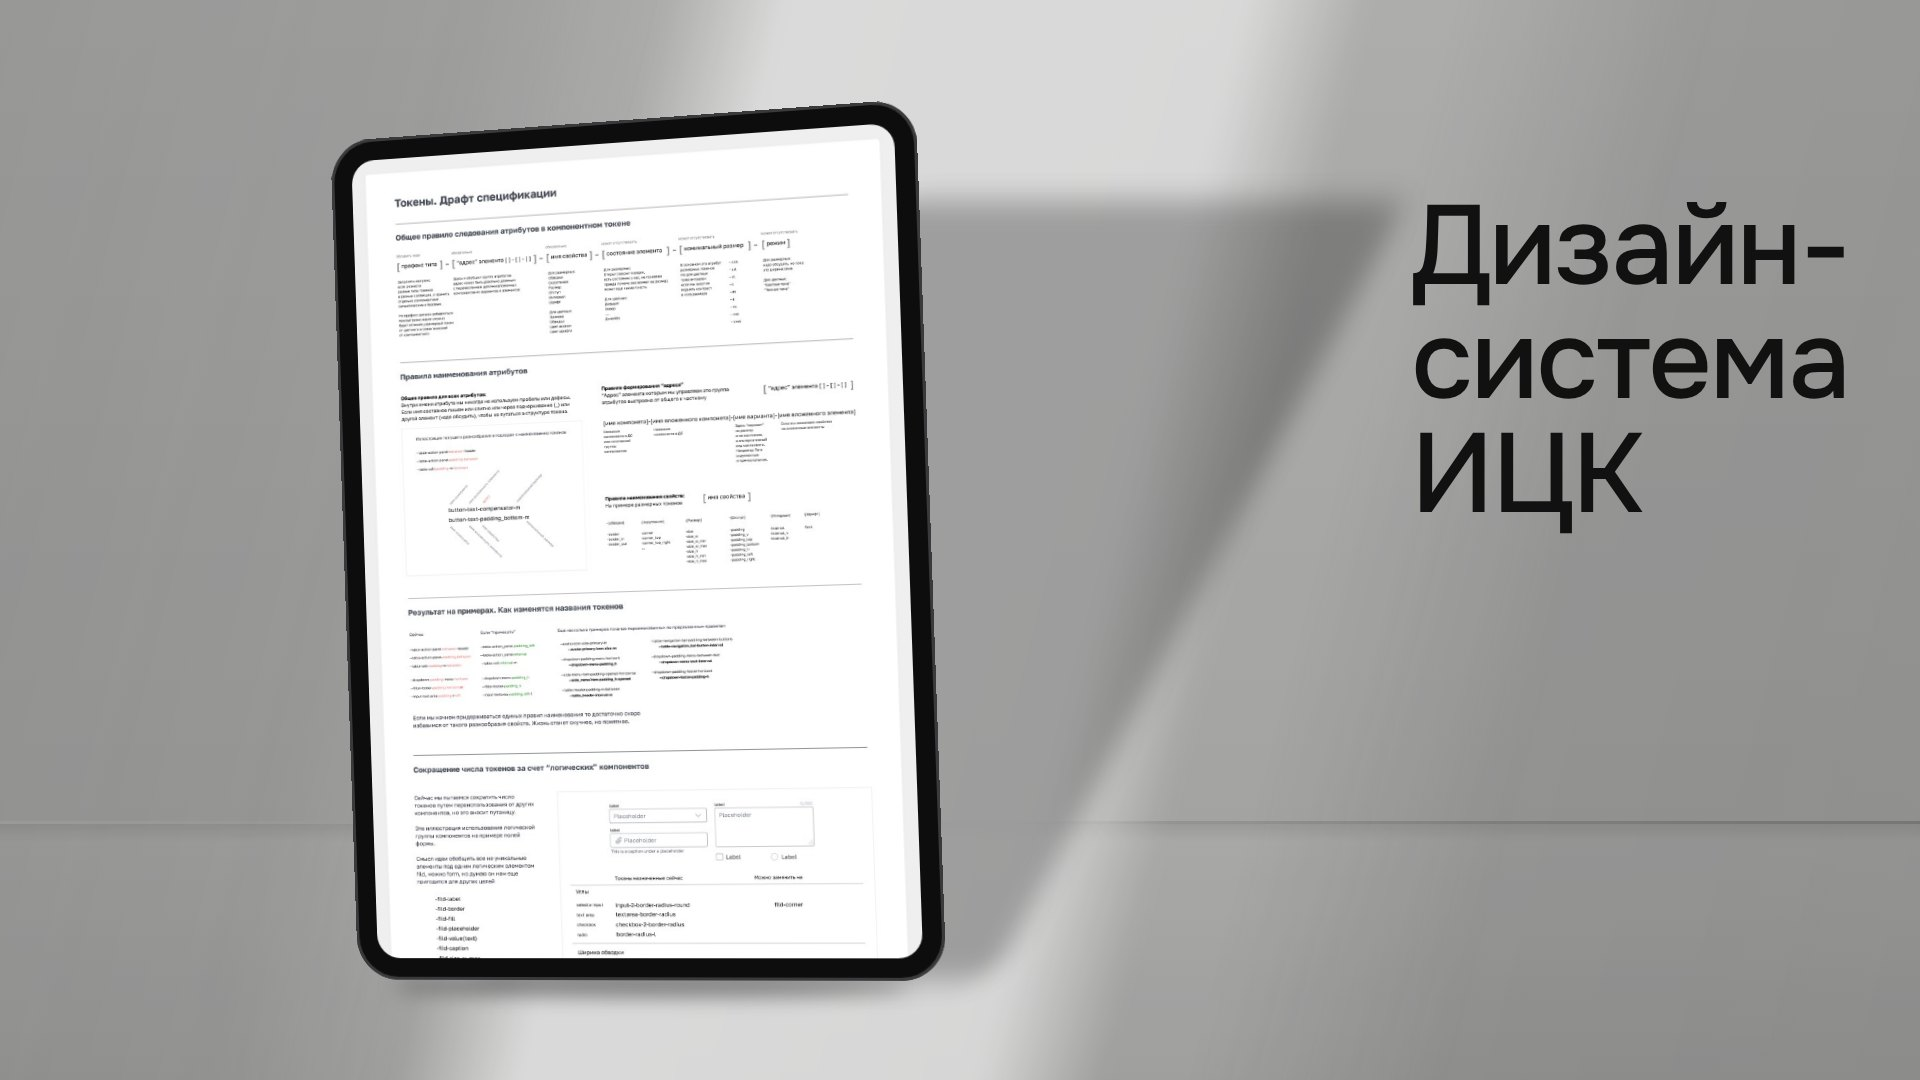
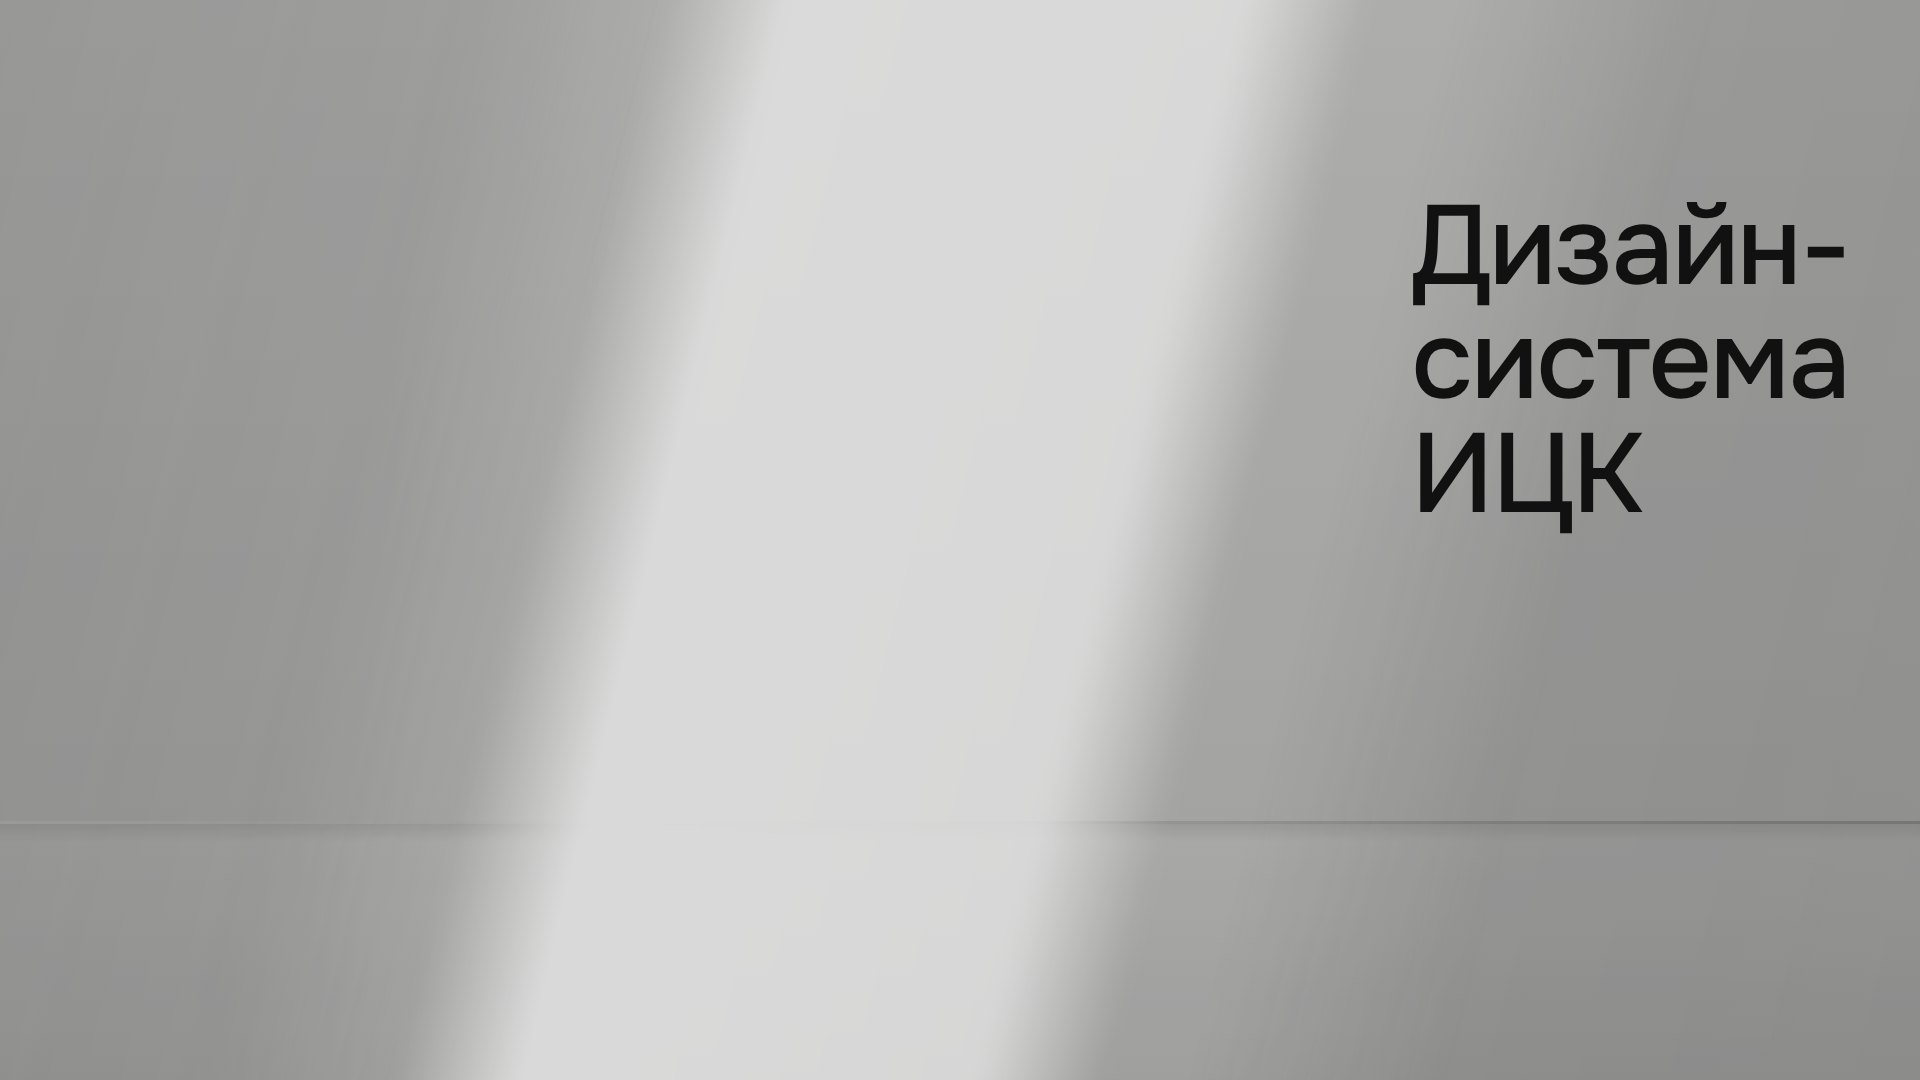
Remove device mockups from IPS case covers
Covers keep the concrete scene, light and title; mockup helpers stay in
the script to bring screens back later.

Claude-Session: https://claude.ai/code/session_015S7ALq2UfFAV998sLhVMiE

diff --git a/tools/build-covers.js b/tools/build-covers.js
@@ -68,25 +68,12 @@ body{width:${W}px;height:${H}px;overflow:hidden;position:relative;font-family:"O
 ${body}
 </body></html>`;
 
+// Пока без мокапов устройств: только сцена и заголовок.
+// Функции laptop() и tablet() оставлены, чтобы вернуть экраны позже.
 const covers = {
-  rakurs: base(`
-    <div class="cast" style="left:250px;top:330px;width:1060px;height:600px;transform:skewX(-30deg) translateX(300px);opacity:.8"></div>
-    <div class="scene" style="left:170px;top:300px">${laptop('rakurs-r1-main.jpg', 1060)}</div>
-    <h1 class="title">Ракурс<br>2.0</h1>`),
-
-  gantt: base(`
-    <div class="cast" style="left:300px;top:380px;width:980px;height:560px;transform:skewX(-30deg) translateX(300px);opacity:.75"></div>
-    <div class="scene" style="left:160px;top:320px;perspective:2200px">
-      <div style="transform:rotateY(16deg) rotateX(3deg);transform-origin:left center">${laptop('gantt-error.jpg', 1040, 'left top')}</div>
-    </div>
-    <h1 class="title" style="font-size:96px;top:160px">Планирование<br>на диаграмме<br>Ганта</h1>`, { beam: 118 }),
-
-  ds: base(`
-    <div class="cast" style="left:420px;top:200px;width:520px;height:780px;transform:skewX(-28deg) translateX(260px);opacity:.75"></div>
-    <div class="scene" style="left:330px;top:120px;perspective:2400px">
-      <div style="transform:rotateY(-12deg) rotateZ(-2deg)">${tablet('ds-tokens-spec.jpg', 600, 860)}</div>
-    </div>
-    <h1 class="title" style="top:190px">Дизайн-<br>система<br>ИЦК</h1>`, { beam: 104 }),
+  rakurs: base(`<h1 class="title">Ракурс<br>2.0</h1>`),
+  gantt: base(`<h1 class="title" style="font-size:96px;top:160px">Планирование<br>на диаграмме<br>Ганта</h1>`, { beam: 118 }),
+  ds: base(`<h1 class="title" style="top:190px">Дизайн-<br>система<br>ИЦК</h1>`, { beam: 104 }),
 };
 
 // Обложки финтех-кейсов (bnpl.jpg, bank.jpg) экспортированы из Figma и этим скриптом не генерируются.
